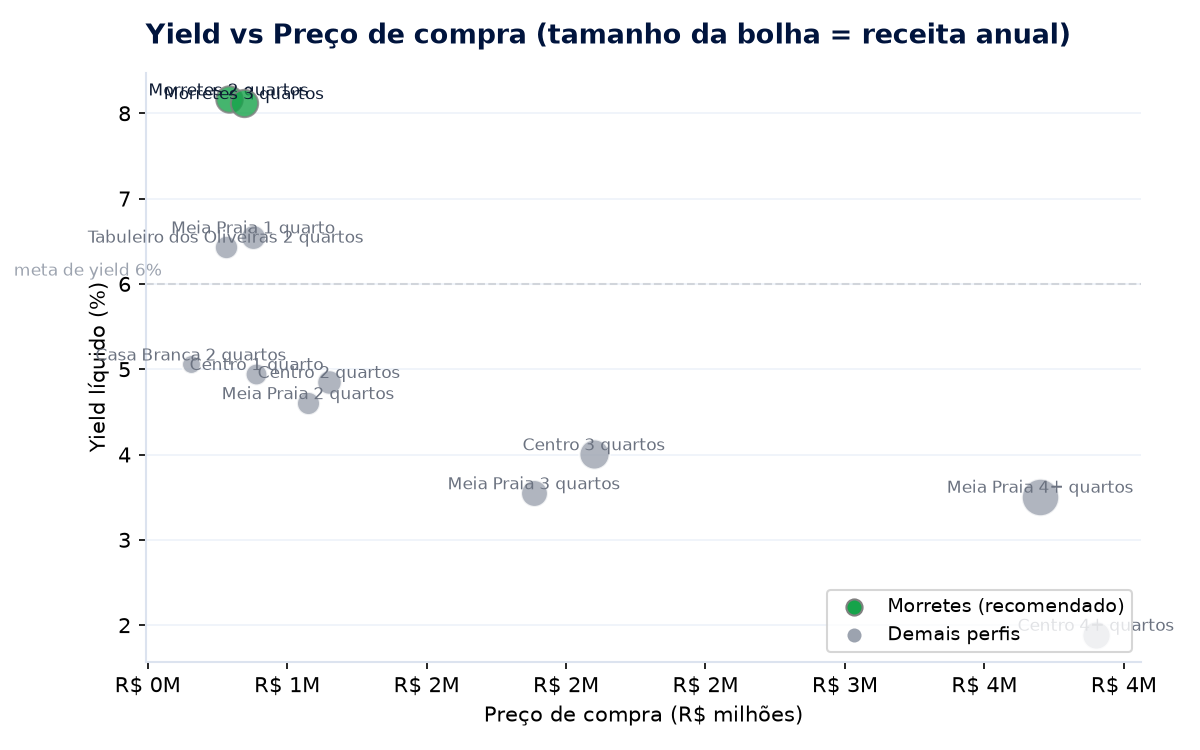
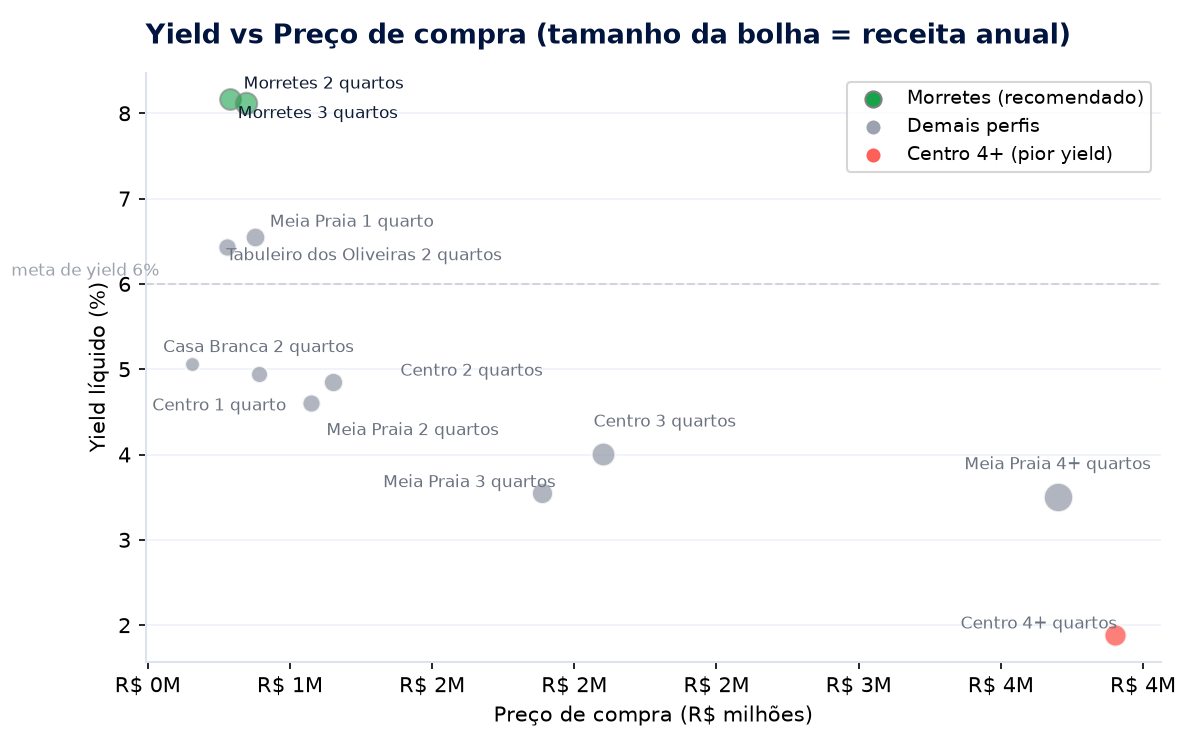
Consolida dashboard e relatório: yield por perfil, robustez, análise da tese do Centro e pipeline único

diff --git a/dashboard/index.html b/dashboard/index.html
@@ -41,6 +41,7 @@
   tbody tr:nth-child(even){background:#FAFCFF}
   tr.dest td{background:#EEF9F1;font-weight:700;color:var(--verde)}
   tr.tese td{background:#FFF0EF;color:#C0362B}
+  tr.coral-linha td{background:#FDECEA;color:#C0362B;font-weight:700}
   .note{font-size:12px;color:var(--suave);margin-top:8px;font-style:italic}
   footer{text-align:center;color:var(--suave);font-size:13px;padding:18px;border-top:1px solid var(--linha)}
   @media(max-width:640px){header h1{font-size:23px}}
@@ -74,7 +75,7 @@
     </div>
     <div class="vs">
       <b>A tese interna dos compactos no Centro NÃO se sustenta</b>
-      Centro: menor yield (4,9%), maior R$/m², menor demanda e maior ociosidade.
+      Centro compacto: yield fraco (4,9%), maior R$/m², menor demanda e maior ociosidade.
     </div>
   </div>
 
@@ -82,7 +83,7 @@
     <div class="kpi verde"><div class="l">Yield Morretes 3q</div><div class="v">8,1%</div><div class="s">líquido/ano · cenário base (35% ocup.)</div></div>
     <div class="kpi"><div class="l">Preço de compra</div><div class="v">R$ 845 mil</div><div class="s">mediana apto 3 quartos Morretes</div></div>
     <div class="kpi"><div class="l">Receita líquida/ano</div><div class="v">R$ 68,6 mil</div><div class="s">bruta R$ 85,5 mil − custos − 15% gestão</div></div>
-    <div class="kpi coral"><div class="l">Yield Compacto Centro</div><div class="v">4,9%</div><div class="s">o pior da cidade · R$ 19.905/m²</div></div>
+    <div class="kpi coral"><div class="l">Yield Compacto Centro</div><div class="v">4,9%</div><div class="s">abaixo da meta ~6% · R$ 19.905/m²</div></div>
   </div>
 
   <section class="card">
@@ -101,7 +102,11 @@
         <tr><td>Casa Branca · 2 quartos</td><td>R$ 655 mil</td><td>R$ 33,1 mil</td><td>5,1%</td><td>6,3</td><td>0,0%</td></tr>
         <tr class="tese"><td>Centro · 1 quarto (TESE)</td><td>R$ 890 mil</td><td>R$ 44,0 mil</td><td>4,9%</td><td>2,8</td><td>7,8%</td></tr>
         <tr><td>Centro · 2 quartos</td><td>R$ 1,15 M</td><td>R$ 55,8 mil</td><td>4,9%</td><td>2,8</td><td>7,8%</td></tr>
+        <tr><td>Meia Praia · 2 quartos</td><td>R$ 1,08 M</td><td>R$ 49,5 mil</td><td>4,6%</td><td>5,0</td><td>0,6%</td></tr>
+        <tr><td>Centro · 3 quartos</td><td>R$ 2,1 M</td><td>R$ 84,1 mil</td><td>4,0%</td><td>2,8</td><td>7,8%</td></tr>
+        <tr><td>Meia Praia · 3 quartos</td><td>R$ 1,88 M</td><td>R$ 66,8 mil</td><td>3,5%</td><td>5,0</td><td>0,6%</td></tr>
         <tr><td>Meia Praia · 4+ quartos</td><td>R$ 3,7 M</td><td>R$ 129,7 mil</td><td>3,5%</td><td>5,0</td><td>0,6%</td></tr>
+        <tr class="coral-linha"><td>Centro · 4+ quartos</td><td>R$ 3,9 M</td><td>R$ 73,6 mil</td><td>1,9%</td><td>2,8</td><td>7,8%</td></tr>
       </tbody>
     </table>
     <p class="note">Morretes entrega o maior retorno por real investido. Imóveis grandes da orla geram mais receita absoluta, mas o preço de compra (R$ 3–5 M) derruba o yield para ~3,5%.</p>
@@ -150,8 +155,23 @@
       <li><b>Demanda saudável e real:</b> 8,5 reviews/ano (quase o dobro do Centro) por host experiente.</li>
       <li><b>Menor ociosidade:</b> apenas 1,2% dos imóveis sem nenhum review vs 7,8% no Centro.</li>
       <li><b>Boa liquidez de saída:</b> fácil revenda e aluguel tradicional alternativo.</li>
-      <li><b>A tese dos compactos no Centro não se sustenta:</b> nas 4 dimensões (custo, receita, demanda, vacância) fica atrás.</li>
     </ul>
+  </section>
+
+  <section class="card">
+    <h2>Por que a tese inicial (compactos no Centro) estava errada</h2>
+    <p>Uma análise preliminar interna sugeriu que apartamentos compactos (studio/1 quarto) na região do Centro seriam a aposta mais eficiente. Os dados mostram o oposto: em <b>todas as dimensões</b> que importam para o retorno, o compacto do Centro perde para outras opções — inclusive para o mesmo tipo de imóvel em outros bairros.</p>
+    <table>
+      <thead><tr><th>Dimensão</th><th>Compacto Centro (1q)</th><th>Por que essa tese enfraquece</th></tr></thead>
+      <tbody>
+        <tr><td>Custo de compra</td><td><b>R$ 19.905/m²</b> (o + caro da cidade)</td><td>Ticket de R$ 890 mil por um imóvel de receita limitada — paga caro pelo m².</td></tr>
+        <tr><td>Receita bruta/ano</td><td>~R$ 58 mil</td><td>Menor até que um 3q de Morretes (R$ 85,5 mil) e que o próprio 2q do Centro (R$ 73 mil).</td></tr>
+        <tr><td>Demanda relativa</td><td><b>2,8 reviews/ano</b> (a menor)</td><td>Menor procura sustentada da cidade, mesmo com o fluxo do Centro.</td></tr>
+        <tr><td>Risco de vacância</td><td><b>7,8% sem reviews</b> (o maior)</td><td>Maior chance de o imóvel ficar parado — oferta ociosa e alta rotação.</td></tr>
+        <tr class="coral-linha"><td>Yield líquido</td><td><b>4,9% ao ano</b></td><td>Bem abaixo da meta (~6%) e da liderança de Morretes (8,1%); a tese priorizou "preço alto por noite" em vez de retorno.</td></tr>
+      </tbody>
+    </table>
+    <p style="margin-top:10px"><b>A raiz do erro:</b> a tese provavelmente se baseou no <i>preço por noite</i> do Centro e no apelo de "compacto = alta demanda". Mas os dados mostram que o Centro tem o maior custo de aquisição da cidade e, ao mesmo tempo, a menor demanda relativa e o maior risco de ociosidade — resultando em um retorno baixo (4,9%, abaixo da meta de ~6% e longe dos ~8% de Morretes). <b>A eficiência de um investimento não está no preço que se cobra, mas no quanto cada real investido devolve por ano</b> — e nesse critério, Morretes 2–3 quartos é soberana.</p>
   </section>
 
   <footer>Hackathon Jovens Talentos AI Builder 2026 · Geovanne Castro · Dados: Airbnb + VivaReal · Relatório completo em <code>relatorio.md</code></footer>

diff --git a/scripts/04_dashboard_charts.py b/scripts/04_dashboard_charts.py
@@ -50,13 +50,15 @@ def main():
 
     # 1 ---- Yield por perfil (ordenado)
     b = base.sort_values("yield_liquido", ascending=False).reset_index(drop=True)
-    labels = [f"{r['suburb']}\n{r['beds_group']}" for _, r in b.iterrows()][:8]
+    sub_short = {"Tabuleiro dos Oliveiras": "T. Oliveiras", "Casa Branca": "Casa Branca"}
+    labels = [f"{sub_short.get(r['suburb'], r['suburb'])}\n{r['beds_group']}" for _, r in b.iterrows()][:8]
     vals = (b["yield_liquido"] * 100)[:8].round(2)
     colors = [GREEN if v == vals.max() else (CORAL if "Centro" in l else AZUL)
               for v, l in zip(vals, labels)]
-    fig, ax = plt.subplots(figsize=(8, 4.2))
+    fig, ax = plt.subplots(figsize=(11, 4.2))
     bar(ax, labels, vals, colors, "Yield líquido ao ano por perfil (%) — cenário base (35% ocupação)", ylabel="%")
-    fig.tight_layout(); fig.savefig(os.path.join(OUT, "yield.png"), dpi=150); plt.close(fig)
+    fig.subplots_adjust(bottom=0.18)
+    fig.savefig(os.path.join(OUT, "yield.png"), dpi=150); plt.close(fig)
 
     # 2 ---- Preço/noite projetado
     p = pd.read_csv(os.path.join(ROOT, "output", "revenue", "price_by_profile.csv"))
@@ -105,43 +107,72 @@ def main():
     ax.yaxis.grid(True, color="#EEF2F9", zorder=0); ax.set_axisbelow(True)
     for s in ["top", "right"]: ax.spines[s].set_visible(False)
     fig.tight_layout(); fig.savefig(os.path.join(OUT, "demanda.png"), dpi=150); plt.close(fig)
-
-    # 5 ---- Receita líquida vs preço de compra (bolhas)
+# 5 ---- Receita líquida vs preço de compra (bolhas)
     b2 = base.copy()
     b2 = b2.groupby(["suburb", "beds_group"], as_index=False).agg(
         preco_compra=("preco_compra", "first"), receita_liq=("receita_liquida", "first"),
         yield_liq=("yield_liquido", "first"))
     b2 = b2[b2["preco_compra"] > 0]
     fig, ax = plt.subplots(figsize=(8, 5))
-    yy = (b2["yield_liq"] * 100).round(2)
-    sz = b2["receita_liq"] / 500
+    from adjustText import adjust_text
     def is_morretes(r):
         return r["suburb"] == "Morretes" and r["beds_group"] in ["2 quartos", "3 quartos"]
+
+    texts = []
     for _, r in b2.iterrows():
         if is_morretes(r):
-            col = GREEN
-            shad = "gray"
+            col, shad, opacidade = GREEN, "gray", 0.6
+        elif r["suburb"] == "Centro" and r["beds_group"] == "4+ quartos":
+            col, shad, opacidade = CORAL, "white", 0.8
         else:
-            col = GRAY
-            shad = "white"
-        ax.scatter(r["preco_compra"] / 1e6, r["yield_liq"] * 100, s=r["receita_liq"] / 400,
-                   color=col, alpha=0.8, edgecolor=shad, zorder=3)
-        ax.annotate(f"{r['suburb']} {r['beds_group']}",
-                    (r["preco_compra"] / 1e6, r["yield_liq"] * 100),
-                    fontsize=8, color="#0E1B33" if is_morretes(r) else "#6B7280",
-                    ha="center", va="bottom")
+            col, shad, opacidade = GRAY, "white", 0.8
+            
+        x = r["preco_compra"] / 1e6
+        y = r["yield_liq"] * 100
+        
+        ax.scatter(x, y, s=r["receita_liq"] / 650,
+                   color=col, alpha=opacidade, edgecolor=shad, zorder=3)
+        lab = f"{r['suburb']} {r['beds_group']}"
+        tcol = "#0E1B33" if is_morretes(r) else "#6B7280"
+        
+        # Deslocamento manual estratégico baseado na imagem para evitar cruzamentos
+        x_text, y_text = x, y
+        if r["suburb"] == "Morretes":
+            y_text = y + 0.25 if "2" in r["beds_group"] else y - 0.25
+        elif r["suburb"] == "Meia Praia" and "1" in r["beds_group"]:
+            y_text = y + 0.25
+        elif r["suburb"] == "Tabuleiro dos Oliveiras":
+            y_text = y - 0.25
+        elif r["suburb"] == "Centro" and "1" in r["beds_group"]:
+            y_text = y - 0.25
+        elif r["suburb"] == "Casa Branca":
+            y_text = y + 0.25
+        elif r["suburb"] == "Centro" and "2" in r["beds_group"]:
+            y_text = y + 0.25
+        elif r["suburb"] == "Meia Praia" and "2" in r["beds_group"]:
+            y_text = y - 0.25
+        else:
+            y_text = y + 0.25 # Padrão para os demais isolados
+            
+        t = ax.text(x_text, y_text, lab, fontsize=8, color=tcol, ha="center", va="center")
+        texts.append(t)
+
+    # adjust_text ativado sem "arrowprops" apenas para repulsão fina
+    adjust_text(texts, ax=ax, expand=(1.05, 1.2), force_points=(0.2, 0.4), force_text=(0.2, 0.4))
+                
     ax.axhline(6, color="#d1d5db", ls="--", lw=1)
     ax.text(0.02, 6.05, "meta de yield 6%", color="#9ca3af", fontsize=8, va="bottom")
     ax.scatter([], [], s=60, color=GREEN, edgecolor="gray", label="Morretes (recomendado)")
     ax.scatter([], [], s=60, color=GRAY, edgecolor="white", label="Demais perfis")
-    ax.legend(loc="lower right", fontsize=9, frameon=True)
+    ax.scatter([], [], s=60, color=CORAL, edgecolor="white", label="Centro 4+ (pior yield)")
+    ax.legend(loc="upper right", fontsize=9, frameon=True)
     ax.set_xlabel("Preço de compra (R$ milhões)"); ax.set_ylabel("Yield líquido (%)")
     ax.set_title("Yield vs Preço de compra (tamanho da bolha = receita anual)", fontsize=13, color=NAVY, weight="bold", loc="left", pad=14)
     ax.xaxis.set_major_formatter(lambda x, _: f"R$ {x:.0f}M")
     ax.yaxis.grid(True, color="#EEF2F9", zorder=0); ax.set_axisbelow(True)
     ax.spines[["top", "right"]].set_visible(False)
     fig.tight_layout(); fig.savefig(os.path.join(OUT, "bolhas.png"), dpi=150); plt.close(fig)
-
+    
     # 6 ---- Payoff Morretes 3q por cenário
     sel = rev[(rev["suburb"] == "Morretes") & (rev["beds_group"] == "3 quartos")]
     cen = ["conservador", "base", "otimista"]; occ = [0.25, 0.35, 0.45]
@@ -153,11 +184,12 @@ def main():
     colors = [CORAL, AZUL, GREEN]
     bars = ax.bar([f"{o:.0%} ocupação" for o in occ], yields_, color=colors, zorder=3)
     for b, y, liq in zip(bars, yields_, liquida):
-        ax.text(b.get_x() + b.get_width()/2, y + 0.4, f"{y:.1f}%\nR$ {liq:,.0f}/ano",
-                ha="center", va="bottom", fontsize=9)
+        ax.text(b.get_x() + b.get_width()/2, y + 0.3, f"{y:.1f}%  ·  R$ {liq/1000:.0f}k/ano",
+                ha="center", va="bottom", fontsize=8.5)
+    ax.set_ylim(0, max(yields_) * 1.15)
     ax.axhline(6, color=GRAY, ls="--", lw=1); ax.text(0.002, 6.1, "meta 6%", color=GRAY, fontsize=8)
     ax.set_title("Morretes 3 quartos (~R$ 845 mil) — yield por cenário de ocupação",
-                 fontsize=13, color=NAVY, weight="bold", loc="left", pad=14)
+                 fontsize=13, color=NAVY, weight="bold", loc="left", pad=18)
     ax.set_ylabel("Yield líquido (%)"); ax.yaxis.grid(True, color="#EEF2F9", zorder=0); ax.set_axisbelow(True)
     ax.spines[["top", "right"]].set_visible(False)
     fig.tight_layout(); fig.savefig(os.path.join(OUT, "payoff.png"), dpi=150); plt.close(fig)

diff --git a/scripts/run_all.py b/scripts/run_all.py
@@ -1,0 +1,39 @@
+"""run_all.py — executa todo o pipeline de uma vez.
+
+Roda, em ordem: 01_prep → 02_revenue → 03_yield → 04_dashboard_charts.
+
+Execução: python scripts/run_all.py
+"""
+import sys, os, subprocess
+
+HERE = os.path.dirname(os.path.abspath(__file__))
+PY = sys.executable
+
+STEPS = [
+    ("01_prep.py",            "Preparação e cruzamento das bases"),
+    ("02_revenue.py",         "Modelo de receita (preço/demanda/sazonalidade)"),
+    ("03_yield.py",           "Lado da compra (VivaReal) + yield líquido"),
+    ("04_dashboard_charts.py","Geração dos gráficos do dashboard"),
+]
+
+
+def main():
+    print("=" * 70)
+    print("PIPELINE ITAPEMA — SEAZONE")
+    print("=" * 70)
+    for script, desc in STEPS:
+        path = os.path.join(HERE, script)
+        print(f"\n--- [{desc}] ({script}) ---")
+        rc = subprocess.call([PY, path])
+        if rc != 0:
+            print(f"\nERRO ao executar {script} (código {rc}). Encerrando.")
+            sys.exit(rc)
+    print("\n" + "=" * 70)
+    print("Pipeline concluído com sucesso.")
+    print("Resultados em output/ e gráficos em dashboard/graficos/.")
+    print("Dashboard: abra dashboard/index.html no navegador.")
+    print("=" * 70)
+
+
+if __name__ == "__main__":
+    main()

diff --git a/relatorio.md b/relatorio.md
@@ -24,7 +24,7 @@ Morretes combina o **menor custo de entrada** entre os bairros relevantes (apto 
 
 ## 1. Qual o melhor perfil de imóvel para investir?
 
-**Critério:** yield líquido anual = (receita bruta − condomínio/IPTU − 15% taxa de gestão Seazone) ÷ preço de compra. Esse critério responde diretamente a "o que comprar" (tarefa 4) e penaliza bairros caros como Centro.
+**Critério:** yield líquido anual = (receita bruta − condomínio/IPTU − taxa de gestão) ÷ preço de compra. Usamos **15% de taxa de gestão**, assumida como premissa de mercado (não consta nos dados — ver Limitações), no padrão típico de gestão de curta temporada. Esse critério responde diretamente a "o que comprar" (tarefa 4) e penaliza bairros caros como Centro.
 
 **Resposta: apartamento de 2 a 3 quartos em Morretes.** É a tipologia que maximiza o retorno sobre o capital investido (yield ~8,1%), com ticket de entrada baixo e demanda saudável. Apartamentos de 3 a 4+ quartos geram mais receita absoluta (ex.: Meia Praia 4+ = R$ 161 mil/ano), mas exigem imóveis de R$ 3–5 milhões, derrubando o yield para ~3,5%. O tipo mais eficiente é o apartamento (91% da oferta com preço; casas têm custo/área alto e menor demanda).
 
@@ -40,7 +40,7 @@ Morretes combina o **menor custo de entrada** entre os bairros relevantes (apto 
 
 - **Receita bruta absoluta:** Meia Praia (ex.: R$ 161 mil/ano em 4+ quartos) é o teto, mas exige imóveis de R$ 3,7M+ → yield ~3,5%.
 - **Eficiência por real investido (yield):** Morretes lidera (8,1%), com custo de compra ~4x menor que Meia Praia e demanda relativa quase o dobro (8,5 vs 5,0 reviews/ano).
-- **Centro (tese):** apesar do preço/noite razoável, tem o **menor yield da cidade** (4,9%) por três razões: custo por m² o mais alto (R$ 19.905), demanda relativa a mais baixa (2,8 reviews/ano) e o maior percentual de imóveis sem nenhum review (7,8%) — sinal de oferta ociosa/rotação.
+- **Centro (tese):** apesar do preço/noite razoável, tem **yield fraco (4,9%)** por três razões: custo por m² o mais alto (R$ 19.905), demanda relativa a mais baixa (2,8 reviews/ano) e o maior percentual de imóveis sem nenhum review (7,8%) — sinal de oferta ociosa/rotação. Não é o menor yield da cidade (o pior é o Centro 4+ quartos, 1,9%), mas está bem abaixo da meta de ~6% e da liderança de Morretes (8,1%).
 
 A "melhor localização em termos de receita" depende do objetivo: **maximizar receita absoluta → Meia Praia; maximizar retorno sobre o capital → Morretes.** Para uma tese de escala/rentabilidade como a da Seazone, **Morretes** é a escolha.
 
@@ -87,7 +87,7 @@ A "melhor localização em termos de receita" depende do objetivo: **maximizar r
 | Receita bruta anual | ~R$ 58 mil | Menor que um 3q de Morretes (R$ 85,5 mil) |
 | Demanda relativa | **2,8 reviews/ano** (a menor) | Menor procura sustentada |
 | Risco de vacância | **7,8% sem reviews** (o maior) | Maior chance de ficar ocioso |
-| **Yield líquido** | **4,9%** (o menor da cidade) | Pior retorno sobre o capital |
+| **Yield líquido** | **4,9%** (abaixo da meta ~6%) | Retorno baixo sobre o capital |
 
 O Centro paga caro por m² e sofre baixa demanda relativa e alta ociosidade — exatamente o oposto do que uma tese de eficiência exigiria. A aposta dos compactos pode até gerar boa *absorção* em outros mercados, mas **em Itapema os dados apontam para Morretes 2–3 quartos** como o perfil mais eficiente.
 
@@ -103,6 +103,8 @@ O Centro paga caro por m² e sofre baixa demanda relativa e alta ociosidade — 
 
 ### Limitações e qualidade
 - Não há dado de **ocupação real** no Airbnb (só preço anunciado). Usamos **cenários de ocupação (25/35/45%)** e validamos o *rank* de demanda por reviews/ano e vacância, que são robustos entre perfis.
+- **O risco de vacância ("% de imóveis sem reviews") é um proxy, não uma medida de ociosidade.** Reviews só surgem após uma hospedagem real, então zero reviews sinaliza oferta sem evidência de ocupação — mas **também pode refletir anúncios recém-criados** (novos demais para ter hóspedes). Por isso o tratamos como indicador **comparativo** entre bairros (Morretes 1,2% vs Centro 7,8% — diferença 6x sugere mais oferta parada no Centro) e sempre combinado com outros sinais (custo/m², demanda relativa), **não** como um número absoluto de vacância.
 - Janela de preço limitada a **jan–abr/2025** (inclui pico de verão); aplicamos fator de sazonalidade anual (×0,92) com base em índice mensal típico de litoral de SC.
 - O `aquisition_date` reflete a captura do anúncio, não a idade do imóvel; por isso o denominador de demanda usa **anos do host** (proxy mais confiável, mediana 5 anos).
 - Preços de venda do VivaReal passaram por filtro de sanidade (R$ 30 mil–20 milhões) e normalização de bairros.
+- A **taxa de gestão de 15%** é uma **premissa de mercado assumida**, pois o dado não consta na base. Reflete o padrão típico da Seazone/congêneres de curta temporada, mas não veio dos arquivos de `data/`. Como é aplicada proporcionalmente à receita bruta de todos os perfis, ela reduz os yields na mesma proporção e **não altera a ordem** de qual perfil é melhor — apenas o nível absoluto.

diff --git a/README.md b/README.md
@@ -6,59 +6,11 @@
 
 **Invista em apartamentos de 2 a 3 quartos no bairro de Morretes (~R$ 790–845 mil).** Yield líquido de ~8,1% ao ano no cenário base (35% de ocupação), payback de ~12 anos.
 
-**Posição sobre a tese interna dos compactos no Centro: os dados NÃO a sustentam.** O Centro é o bairro mais caro por m² (R$ 19.905), tem a menor demanda relativa (2,8 reviews/ano) e o maior risco de ociosidade (7,8% sem reviews) → yield de apenas 4,9%, o menor da cidade.
+**Posição sobre a tese interna dos compactos no Centro: os dados NÃO a sustentam.** O Centro é o bairro mais caro por m² (R$ 19.905), tem a menor demanda relativa (2,8 reviews/ano) e o maior risco de ociosidade (7,8% sem reviews) → yield baixo de 4,9%, abaixo da meta de ~6% e longe dos ~8% de Morretes.
 
 📄 **[Relatório completo → `relatorio.md`](relatorio.md)** · 🎬 **[Roteiro do vídeo → `roteiro-video.md`](roteiro-video.md)** · 📊 **[Dashboard → `dashboard/index.html`](dashboard/index.html)**
 
 O dashboard é uma página HTML autocontida com gráficos e tabelas mostrando **por que Morretes é a melhor opção**. Abra `dashboard/index.html` no navegador.
-
----
-
-## 👉 Leia o desafio aqui
-
-### **[ABRIR O DESAFIO COMPLETO](https://seazone-tech.github.io/jovens-talentos-2026-hackathon-data/)**
-
-Lá está tudo: a missão, os dados, **o que entregar**, as regras, o prazo e **como vamos avaliar**.
-Leia antes de começar a mexer nos dados.
-
-> Se o link acima não abrir, o mesmo conteúdo está no arquivo [`index.html`](index.html) deste repositório
-> (baixe e abra no navegador).
-
----
-
-## Primeiro passo
-
-**Faça um _fork_ deste repositório.** É nele que você vai trabalhar e é ele que você entrega.
-
----
-
-## Os dados (`data/`)
-
-Snapshot estático do mercado imobiliário de **Itapema (SC)**, com anúncios de Airbnb e de venda (VivaReal).
-É a mesma base para todos os candidatos, para garantir comparação justa.
-
-| Arquivo | O que tem | Como conecta |
-|---|---|---|
-| `Details_Itapema.csv` | Cada anúncio de Airbnb: título, reviews, star rating, descrição, host_id, nº de quartos, tipo de imóvel | Base principal dos listings |
-| `Hosts_ids_Itapema.csv` | Dados do anfitrião: nº de reviews, anos como host, superhost, taxa de resposta | Liga com Details pelo `owner_id` |
-| `Mesh_Ids_Data_Itapema.csv` | Latitude/longitude + bairro de cada anúncio | Liga por listing |
-| `Price_AV_Itapema.csv` | Preço por anúncio, por data de estadia e por data de captura | Liga por listing |
-| `VivaReal_Itapema.csv` | Anúncios de venda: preço, condomínio, área, vendedor | Mercado de compra |
-
----
-
-## Resumo do que você entrega
-
-1. **Este repositório, forkado e público**, com a sua análise, o `README.md` explicando como rodar,
-   a pasta `ai-log/` (conversas com a IA **em texto**) e a recomendação final escrita.
-2. **Vídeo de até 3 minutos** no Google Drive, com o link na primeira linha do seu README.
-
-O detalhe de cada item, o prazo e o formulário de entrega estão no
-**[desafio completo](https://seazone-tech.github.io/jovens-talentos-2026-hackathon-data/)**.
-
----
-
-*Seazone — Jovens Talentos AI Builder 2026*
 
 ---
 
@@ -71,10 +23,14 @@ Pré-requisito: Python 3.12.
 python -m venv .venv
 .venv/Scripts/python.exe -m pip install pandas numpy matplotlib
 
-# 2. executar o pipeline (ordem importa)
-.venv/Scripts/python.exe scripts/01_prep.py    # prepara e cruza as bases
-.venv/Scripts/python.exe scripts/02_revenue.py # modelo de receita (preço/demanda/sazonalidade)
-.venv/Scripts/python.exe scripts/03_yield.py   # lado da compra (VivaReal) + yield líquido
+# 2. executar toda a análise de uma vez
+.venv/Scripts/python.exe scripts/run_all.py
+
+# (opcional) executar passo a passo, na ordem
+.venv/Scripts/python.exe scripts/01_prep.py             # prepara e cruza as bases
+.venv/Scripts/python.exe scripts/02_revenue.py          # modelo de receita
+.venv/Scripts/python.exe scripts/03_yield.py            # yield líquido (compra)
+.venv/Scripts/python.exe scripts/04_dashboard_charts.py # gera gráficos do dashboard
 ```
 
 Saídas em `output/`:
@@ -86,3 +42,14 @@ Saídas em `output/`:
 - **`roteiro-video.md`** — roteiro do vídeo de 3 minutos.
 - **`ai-log/`** — sessão de trabalho com a IA exportada em texto (parte da avaliação).
 
+## Sobre os dados
+
+Análise feita sobre o snapshot do mercado imobiliário de **Itapema (SC)**, com anúncios de Airbnb e de venda (VivaReal), localizados em `data/`:
+
+| Arquivo | Conteúdo |
+|---|---|
+| `Details_Itapema.csv` | Anúncios de Airbnb (tipo, quartos, reviews, ratings) |
+| `Hosts_ids_Itapema.csv` | Dados dos anfitriões |
+| `Mesh_Ids_Data_Itapema.csv` | Bairro + coordenadas dos anúncios |
+| `Price_AV_Itapema.csv` | Preço por anúncio e data |
+| `VivaReal_Itapema.csv` | Anúncios de venda (mercado de compra) |
